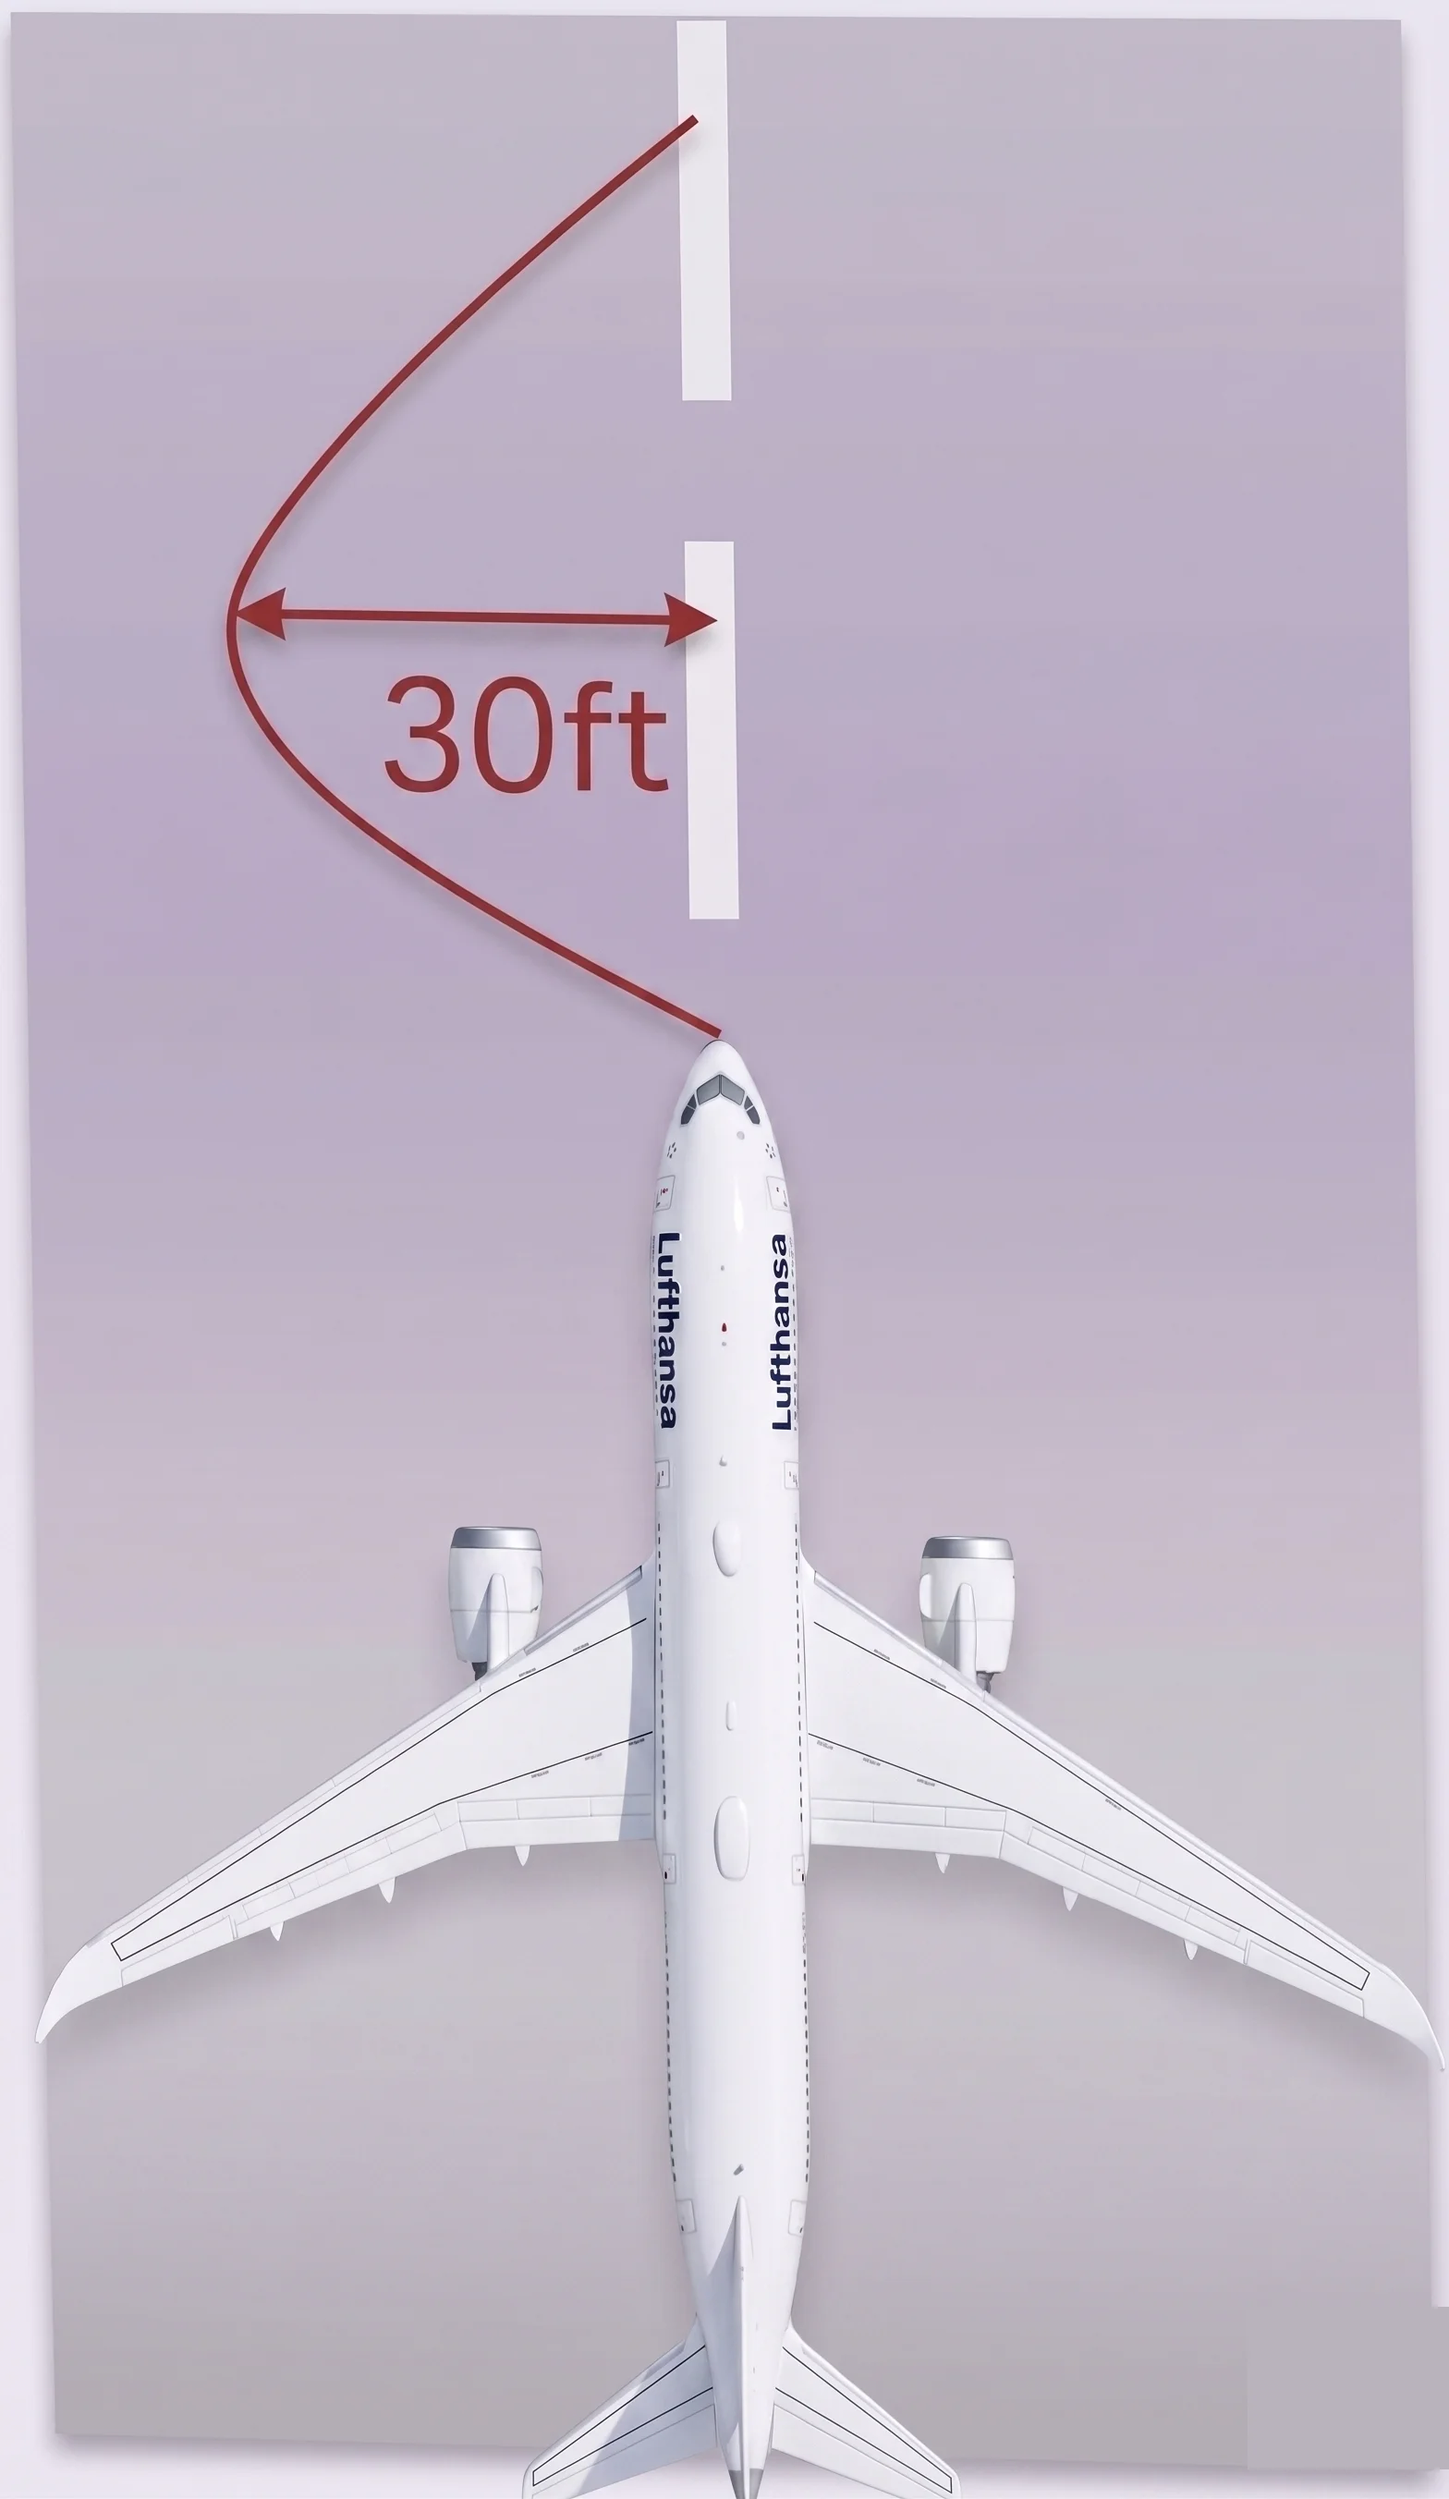
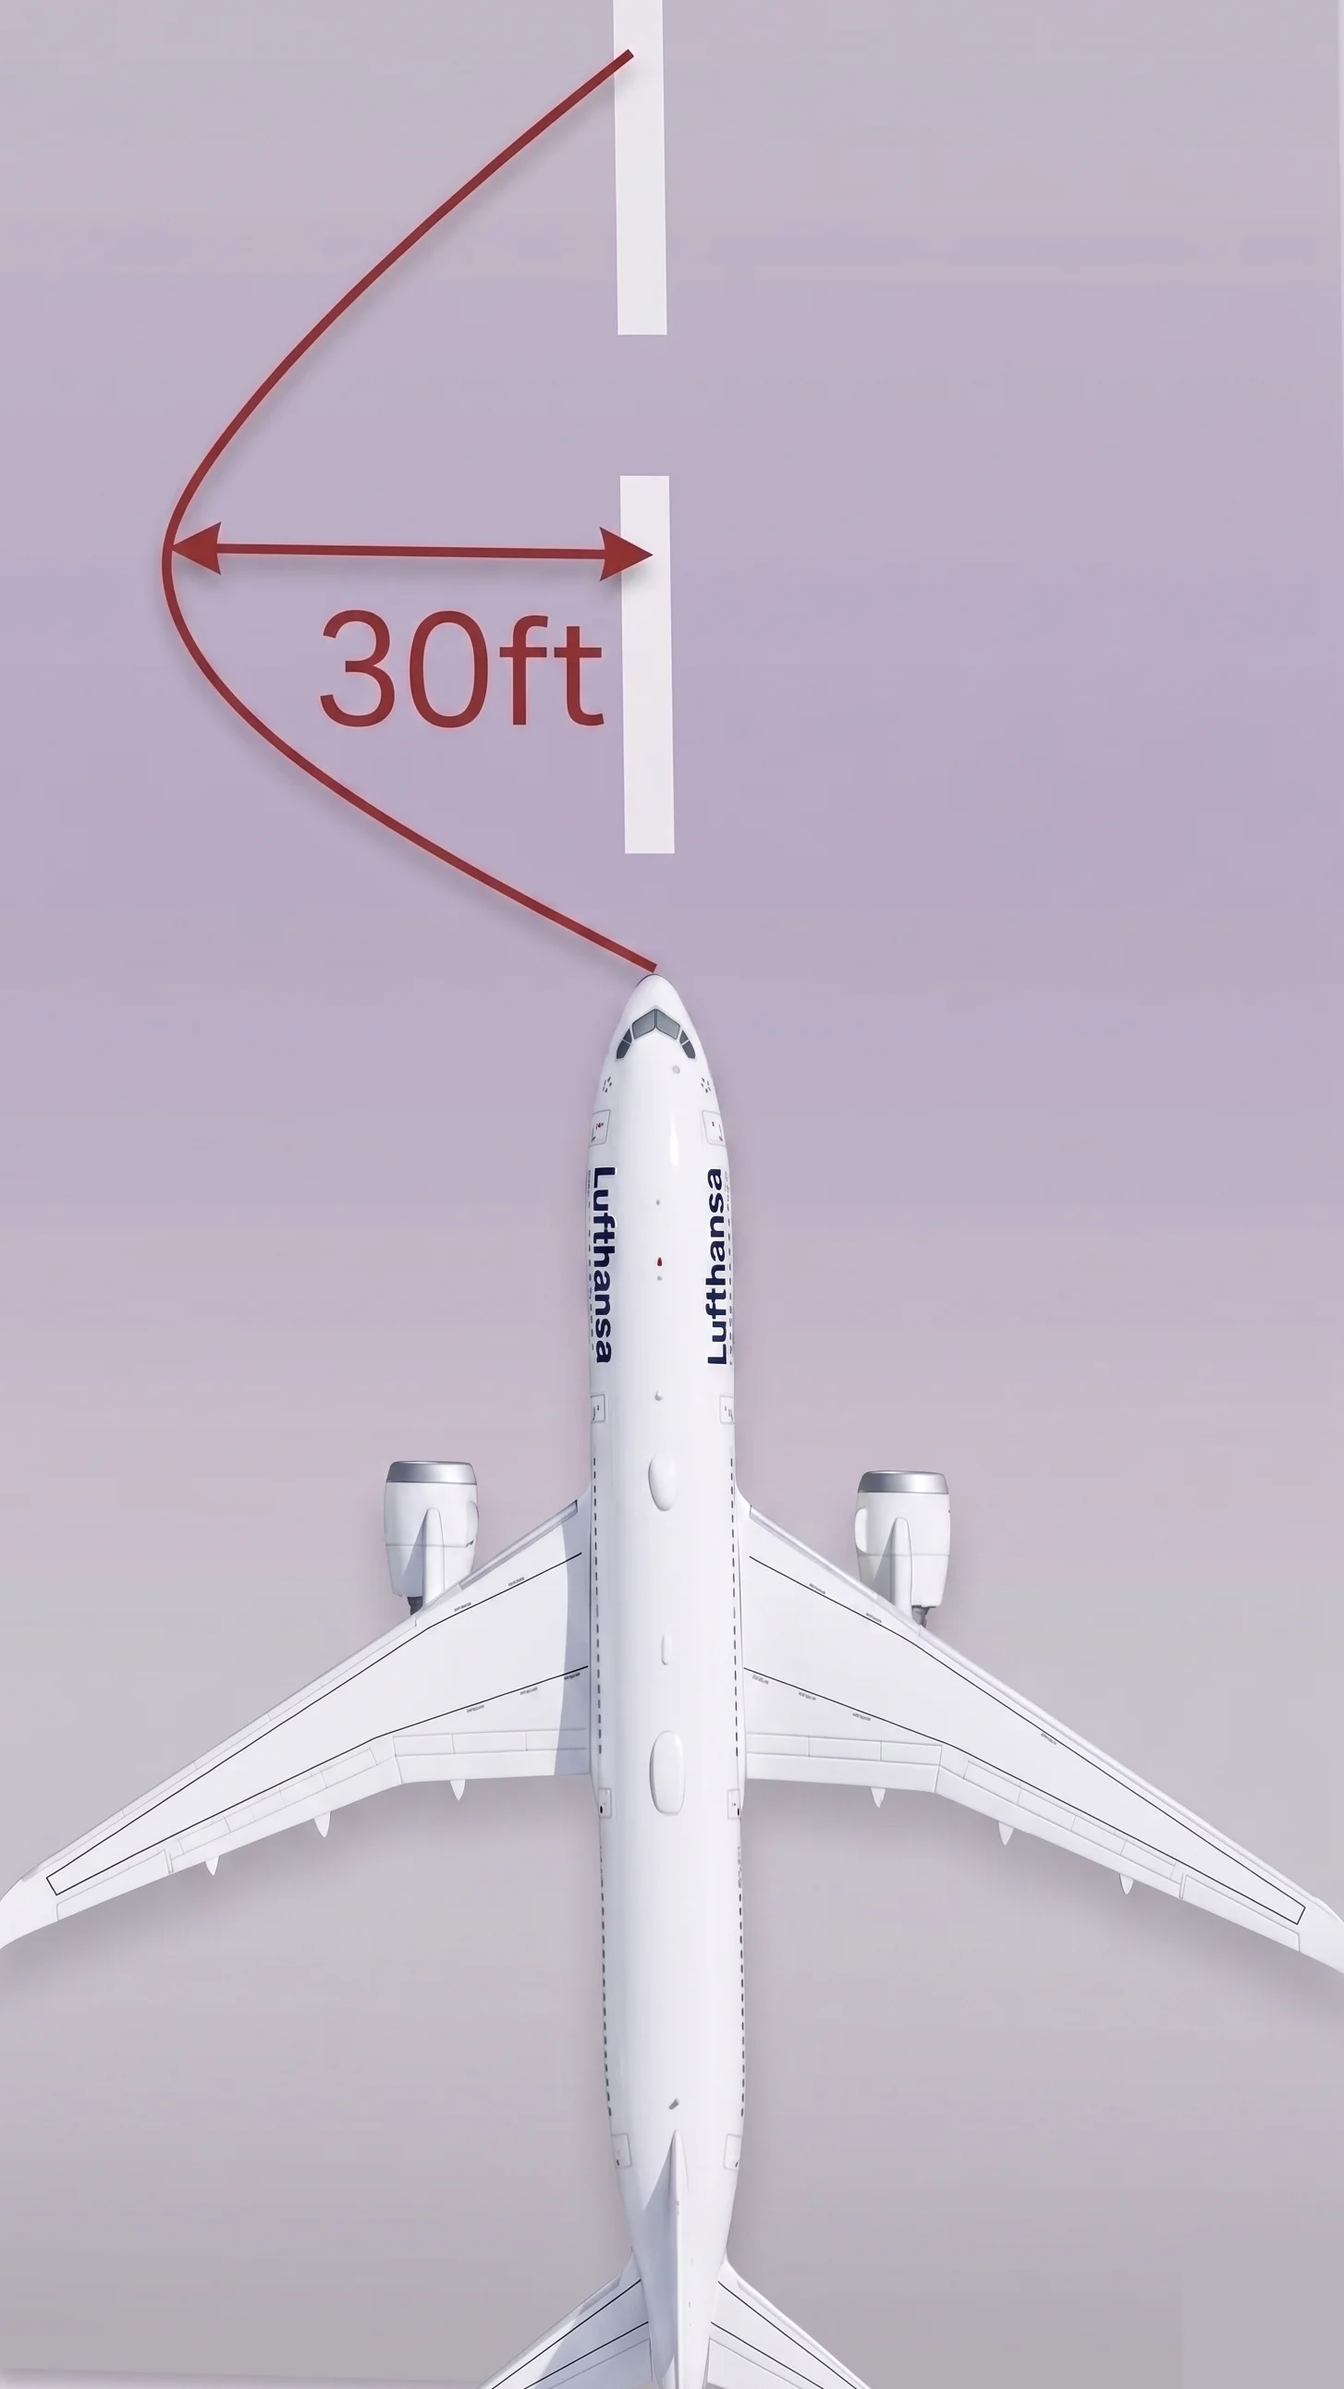
Quartz sync: May 8, 2026, 10:01 AM

Changed region(s): [[0.0, 0.0, 1.0, 1.0], [0.5261, 0.4642, 0.588, 0.6809], [0.3714, 0.3714, 0.4642, 0.4023]]

diff --git a/content/Performance.md b/content/Performance.md
@@ -48,7 +48,7 @@ title: Performance
 
 <img src="/Bilder/v1%20range.webp" alt="V1 Range" style="width:100%;border-radius:6px;display:block;">
 
-## v<sub>MCG</sub> Limitations
+## vMCG Limitations
 
 <img src="/Bilder/vmcg.webp" alt="vMCG" style="max-width:45%;border-radius:6px;display:block;margin-bottom:0.75rem;">
 
